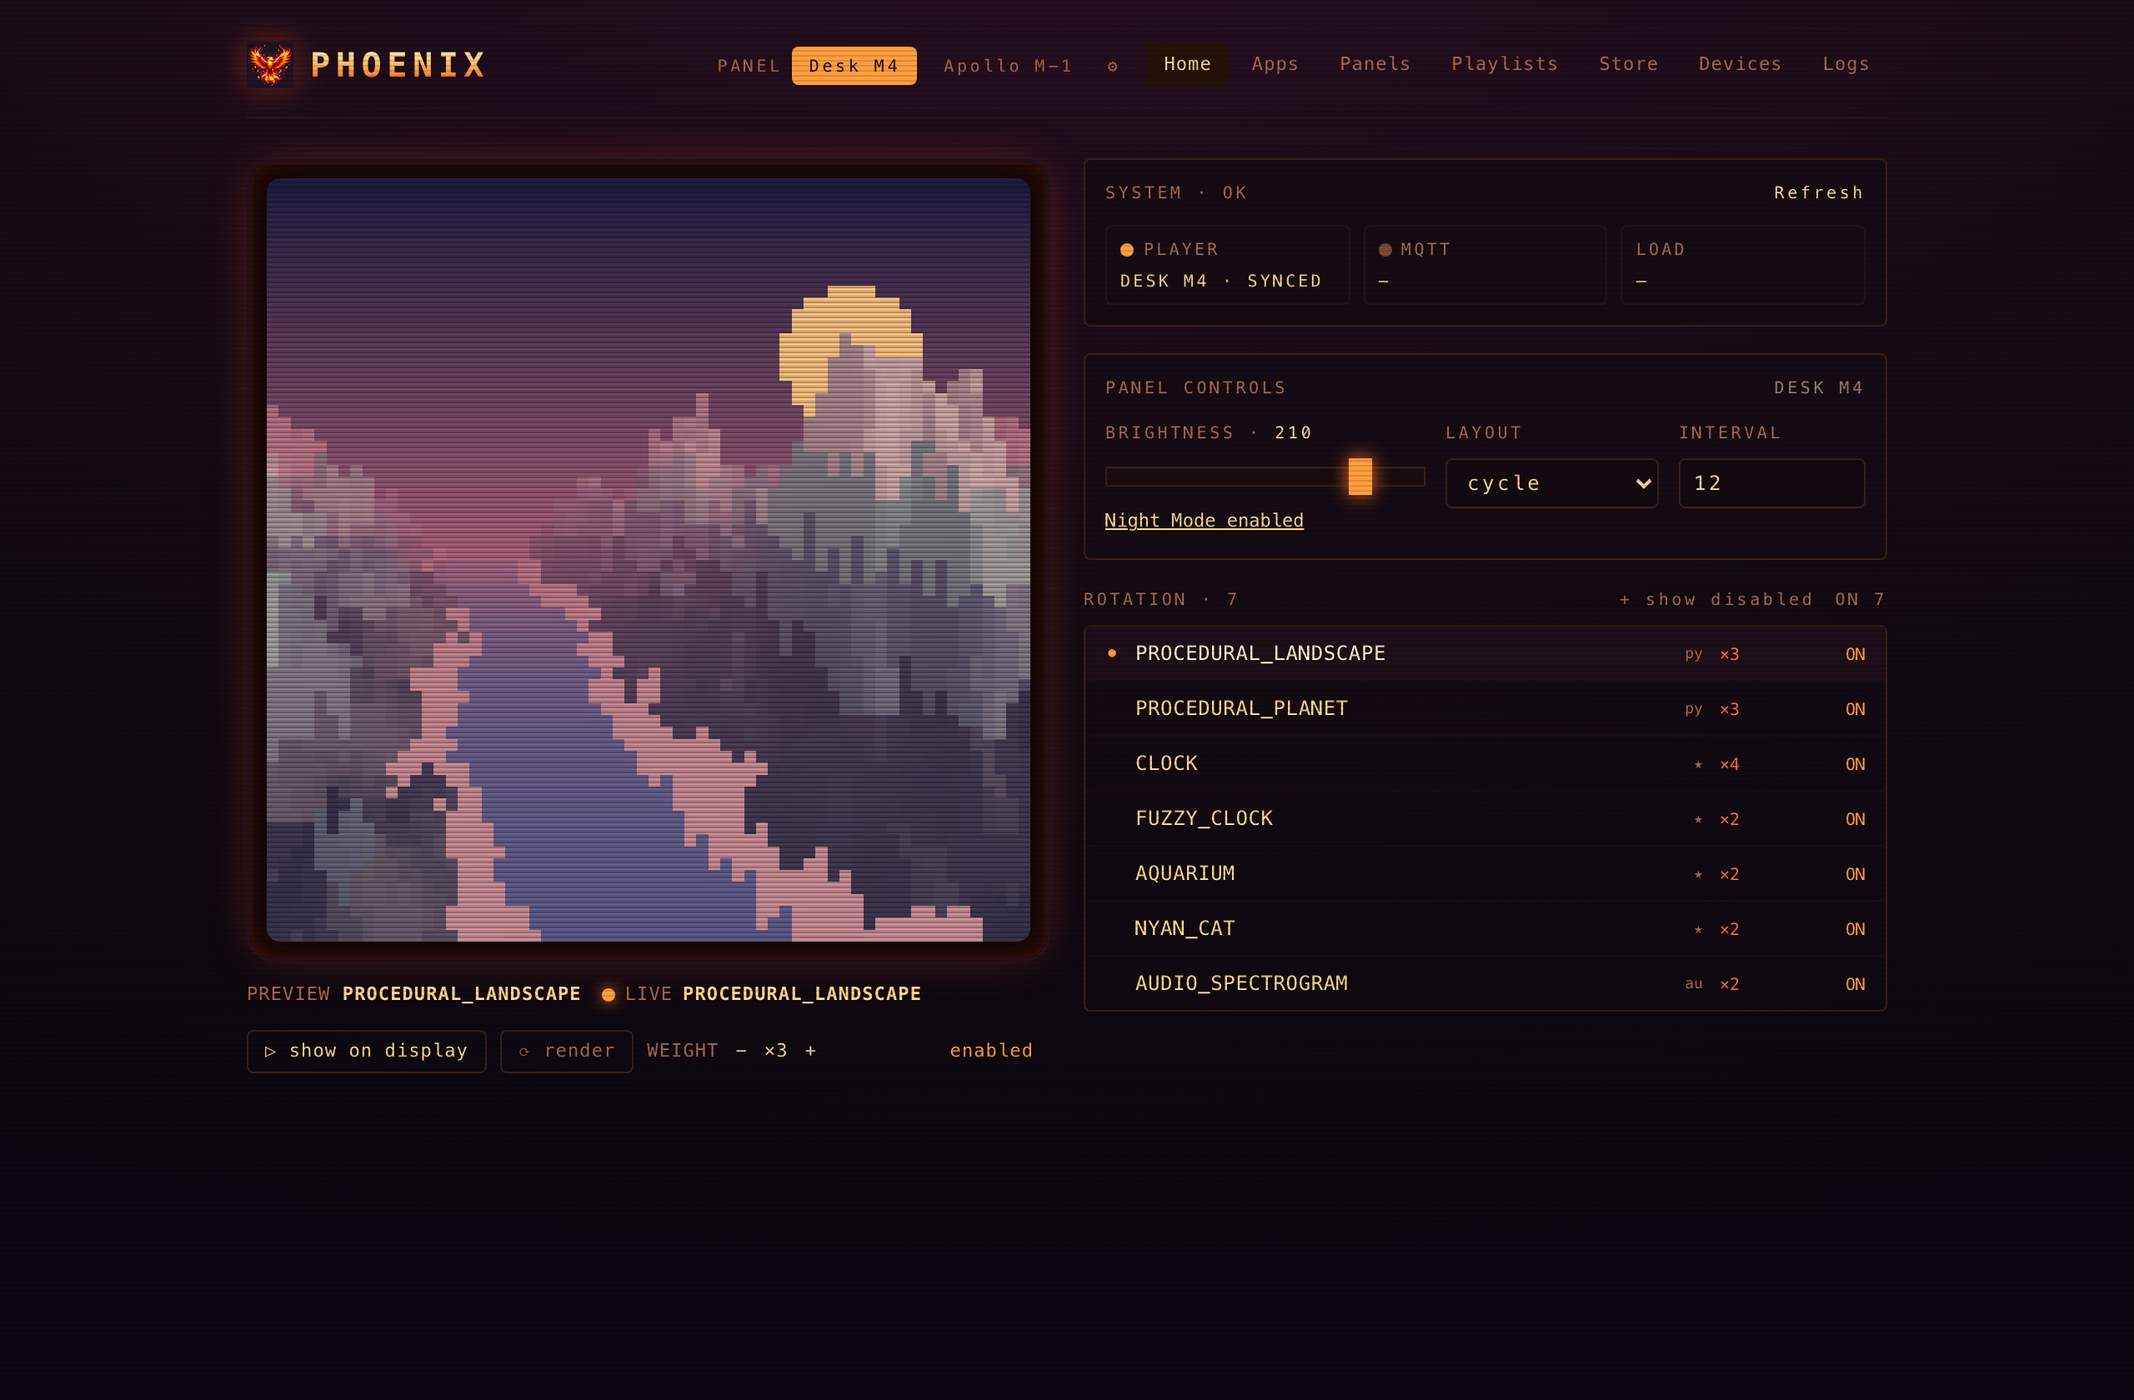
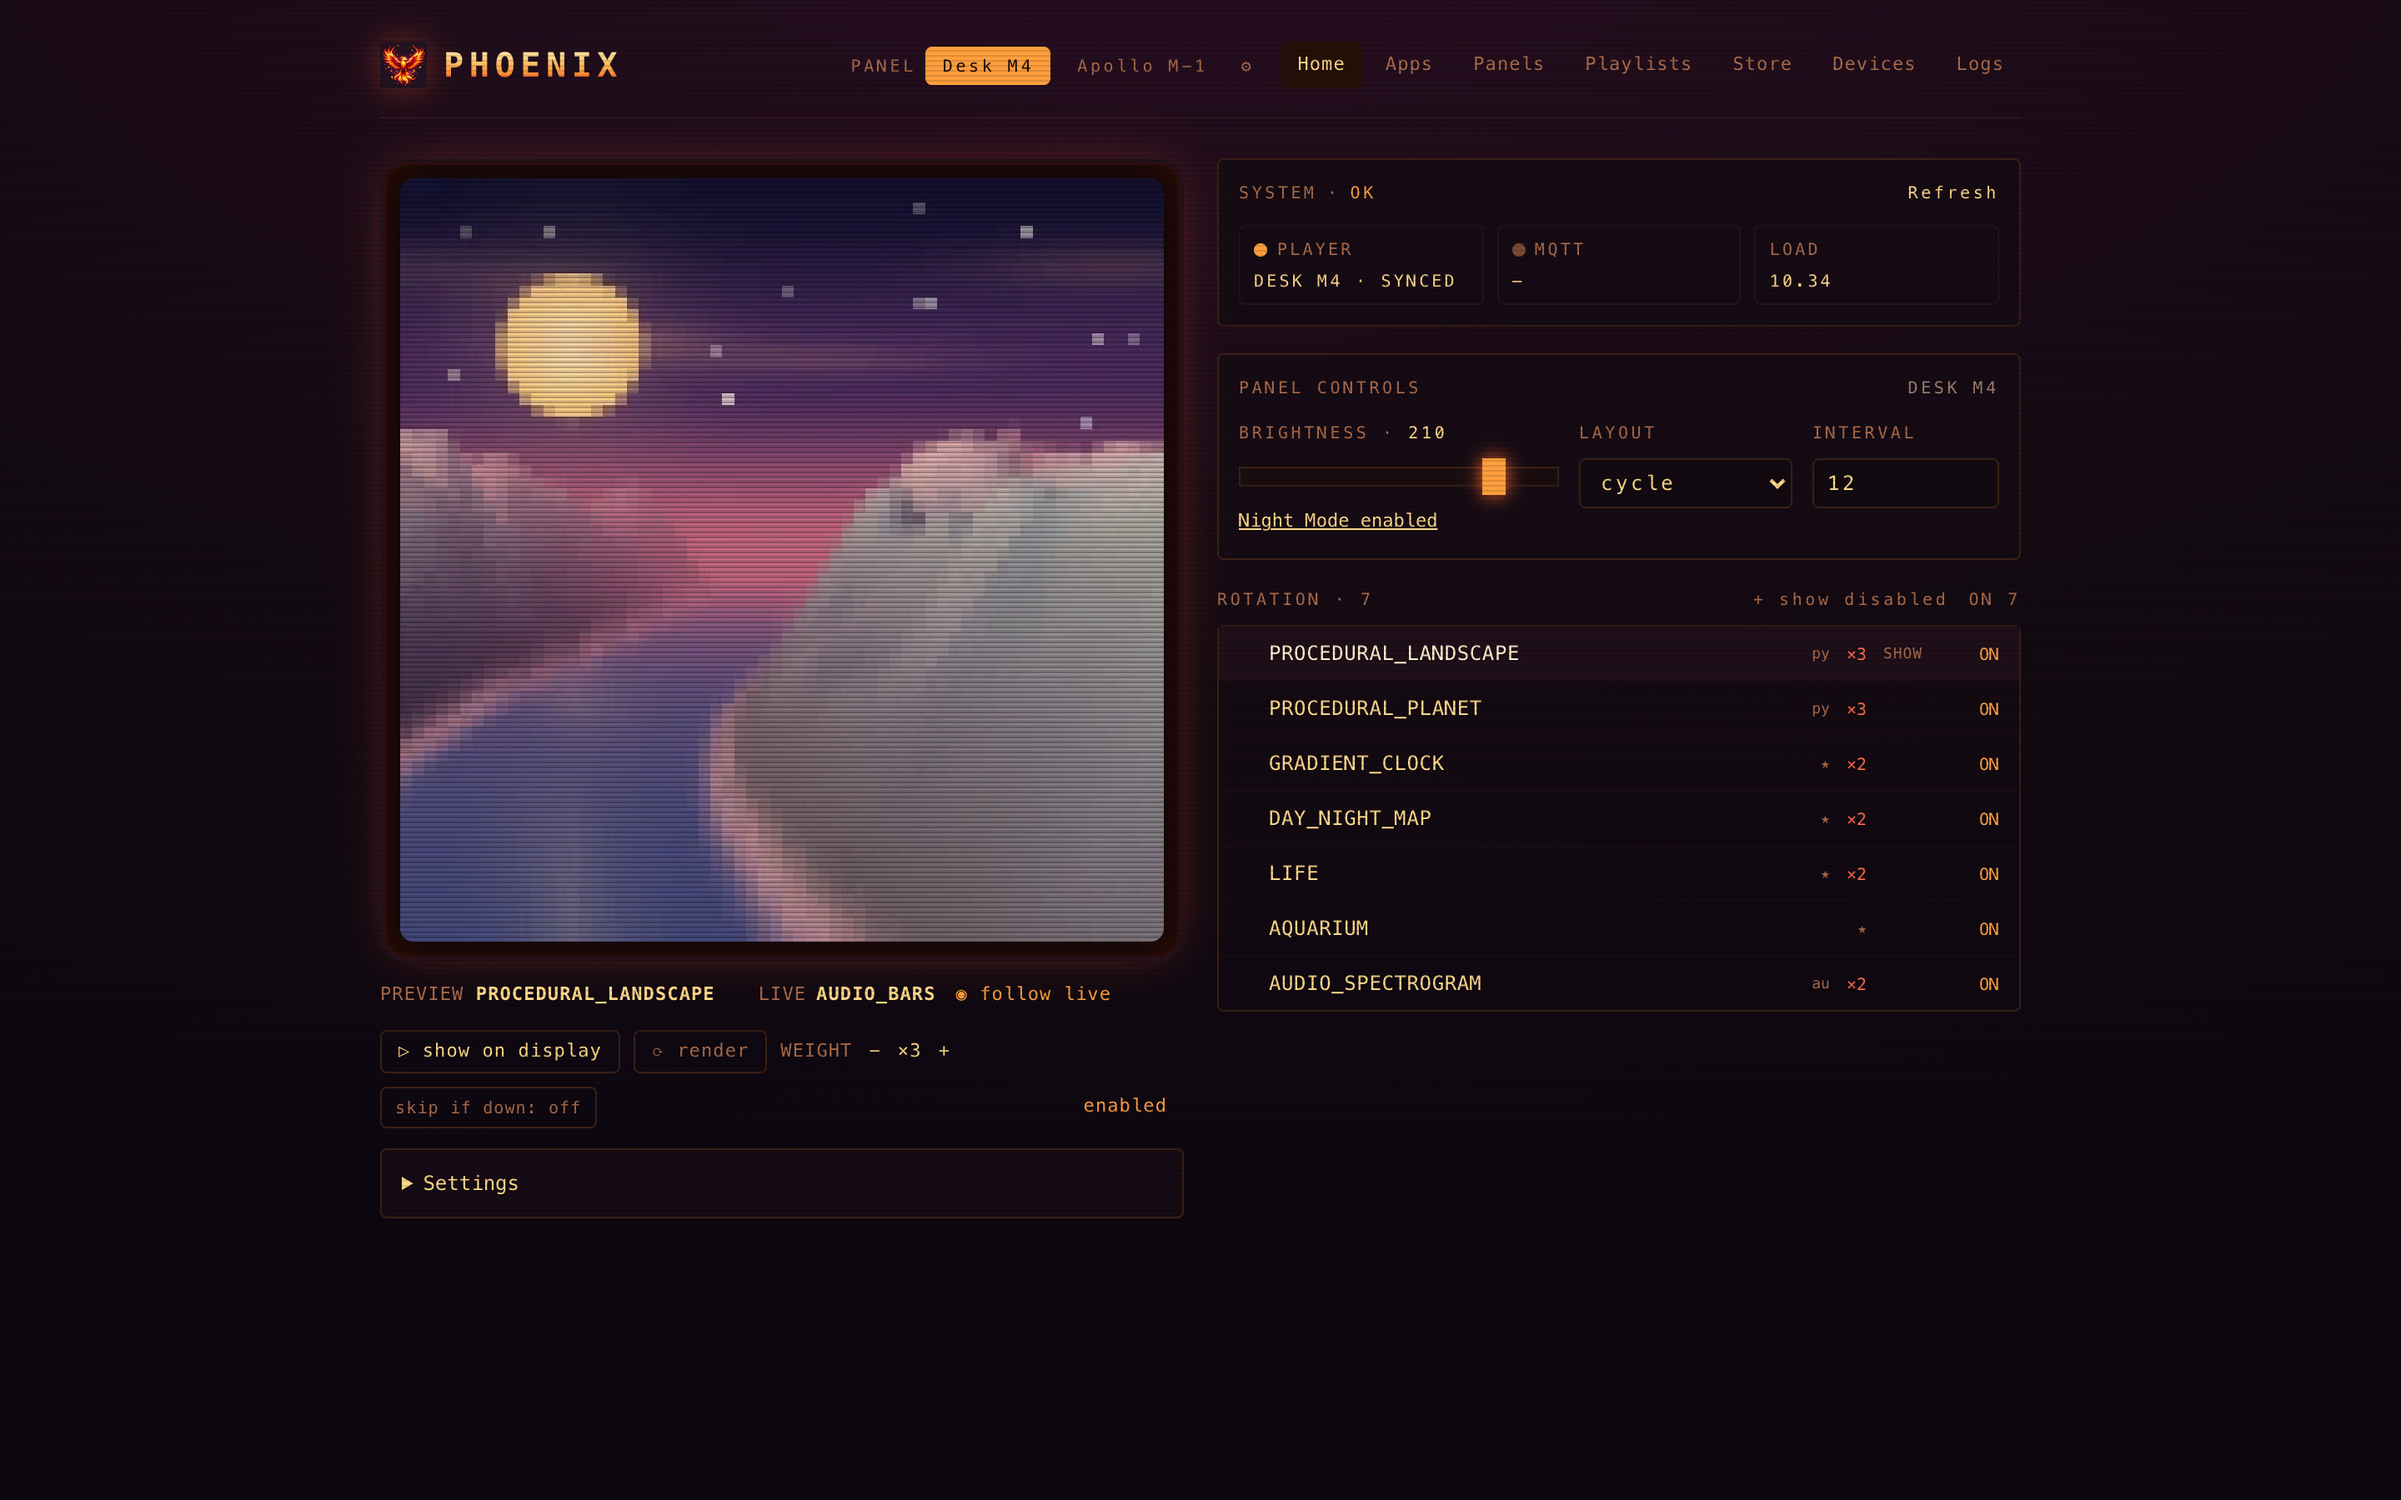
chore(apps): remove nyan_cat, seed curated starter rotation, refresh dashboard screenshot & link Apollo M-1

diff --git a/phoenix/db.py b/phoenix/db.py
@@ -621,6 +621,46 @@ class DeviceDatabase:
             conn.commit()
 
 
+_STARTER_APPS: tuple[dict, ...] = (
+    {
+        "name": "procedural_landscape",
+        "refresh_interval": 1800.0,
+        "priority": 2,
+        "pixlet_config": {"terrain": "auto", "palette": "auto"},
+    },
+    {
+        "name": "procedural_planet",
+        "refresh_interval": 1800.0,
+        "priority": 2,
+        "pixlet_config": {},
+    },
+    {
+        "name": "gradient_clock",
+        "refresh_interval": 30.0,
+        "priority": 1,
+        "pixlet_config": {},
+    },
+    {
+        "name": "day_night_map",
+        "refresh_interval": 900.0,
+        "priority": 1,
+        "pixlet_config": {},
+    },
+    {
+        "name": "life",
+        "refresh_interval": 1800.0,
+        "priority": 1,
+        "pixlet_config": {},
+    },
+    {
+        "name": "aquarium",
+        "refresh_interval": 1800.0,
+        "priority": 0,
+        "pixlet_config": {},
+    },
+)
+
+
 def seed_default_device(
     device_id: str = "main",
     name: str = "Main",
@@ -628,8 +668,9 @@ def seed_default_device(
     path: str | Path | None = None,
 ) -> str | None:
     """If no devices exist yet, migrate the current single-device state into one
-    device (config + the whole global rotation). Idempotent and non-destructive —
-    it only reads the legacy tables and writes the new ones.
+    device (config + the whole global rotation). On a brand-new empty database
+    with no user apps yet, also seeds a curated set of zero-config starter apps.
+    Idempotent and non-destructive.
 
     Returns the seeded device id, or None if devices already existed.
     """
@@ -645,9 +686,21 @@ def seed_default_device(
         layout_mode=cfg.layout_mode,
         cycle_interval=cfg.cycle_interval,
     )
-    for app in AppDatabase(path).list_apps():
-        if app.source == "builtin":
-            continue
+    adb = AppDatabase(path)
+    existing_apps = [app for app in adb.list_apps() if app.source != "builtin"]
+    if not existing_apps:
+        for idx, starter in enumerate(_STARTER_APPS):
+            adb.upsert(
+                starter["name"],
+                enabled=True,
+                active=True,
+                refresh_interval=starter["refresh_interval"],
+                priority=starter["priority"],
+                sort_order=idx,
+                pixlet_config=dict(starter["pixlet_config"]),
+            )
+        existing_apps = [app for app in adb.list_apps() if app.source != "builtin"]
+    for app in existing_apps:
         ddb.set_app(
             device_id,
             app.name,
@@ -655,7 +708,7 @@ def seed_default_device(
             priority=app.priority,
             sort_order=app.sort_order,
         )
-    logger.info("Seeded default device %r from existing single-device state", device_id)
+    logger.info("Seeded default device %r with %d apps", device_id, len(existing_apps))
     return device_id
 
 

diff --git a/tests/test_devices.py b/tests/test_devices.py
@@ -59,3 +59,21 @@ def test_seed_migrates_existing_single_device_state(tmp_path):
 
     # idempotent — running again is a no-op
     assert seed_default_device(path=db) is None
+
+
+def test_seed_fresh_db_populates_curated_starter_apps(tmp_path):
+    db = str(tmp_path / "fresh.db")
+    seeded = seed_default_device("main", "Main", "web", path=db)
+    assert seeded == "main"
+
+    ddb = DeviceDatabase(db)
+    members = [m["app_name"] for m in ddb.list_apps("main")]
+    assert members == [
+        "procedural_landscape",
+        "procedural_planet",
+        "gradient_clock",
+        "day_night_map",
+        "life",
+        "aquarium",
+    ]
+    assert "nyan_cat" not in members

diff --git a/phoenix/models.py b/phoenix/models.py
@@ -44,8 +44,8 @@ REFRESH_PRESETS: dict[str, timedelta] = {
 
 # Default preset assignments based on app name patterns
 _DEFAULT_PRESET_PATTERNS: dict[str, list[str]] = {
-    "realtime": ["clock", "fuzzy_clock"],
-    "ambient": ["procedural_landscape", "procedural_planet", "pixel_planet", "aquarium", "nyan_cat",
+    "realtime": ["clock", "fuzzy_clock", "gradient_clock"],
+    "ambient": ["procedural_landscape", "procedural_planet", "pixel_planet", "aquarium",
                 "programming_excuses", "life", "maps", "hello_world",
                 "schema_hello_world", "font-preview", "quadrants"],
     # Everything else defaults to "frequent"

diff --git a/README.md b/README.md
@@ -50,7 +50,7 @@ Pick the path that fits your desk — no hardware is required to try Phoenix in 
 
 | Path | Hardware | Setup Effort | Connection | Best For | Guide |
 |---|---|---|---|---|---|
-| **Recommended Easy Path** | **Apollo M-1** (or any 64×64 ESP32 WLED matrix) | ~10 min — zero soldering or flashing | Wi-Fi / LAN (DDP UDP `4048`) | Plug-and-play desk display managed from any Mac, Linux box, or home server | [Apollo M-1 & WLED Guide](docs/hardware/apollo-m1-wled.md) |
+| **Recommended Easy Path** | **[Apollo Automation M-1](https://apolloautomation.com/products/m-1-led-matrix)** (or any 64×64 ESP32 WLED matrix) | ~10 min — zero soldering or flashing | Wi-Fi / LAN (DDP UDP `4048`) | Easiest way into the LED matrix world — plug-and-play desk display managed from any Mac, Linux box, or home server | [Apollo M-1 & WLED Guide](docs/hardware/apollo-m1-wled.md) |
 | **DIY HUB75 Build** | **64×64 P2/P2.5 HUB75E panel** + **Adafruit Matrix Portal M4** + 5V 4A PSU | ~30 min — 1 solder jumper + `just flash-m4` | USB-C serial to Pi / mini-PC / Mac | Maximum color fidelity (6-bit sRGB + hardware OE dimming), custom enclosures, optional SCD40 CO₂ sensor | [Matrix Portal M4 Guide](docs/hardware/matrix-portal-m4.md) |
 | **No Hardware Yet** | Any laptop or server | 60 seconds | Browser (`PHOENIX_PLATFORM=web`) | Trying the dashboard, developing Starlark/Python applets | [60-Second Quick Start](#60-second-quick-start) |
 
